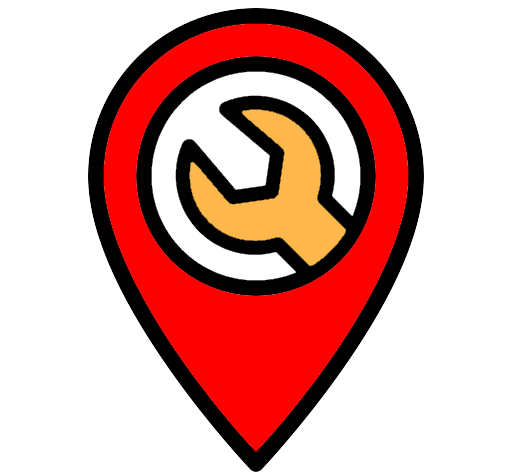
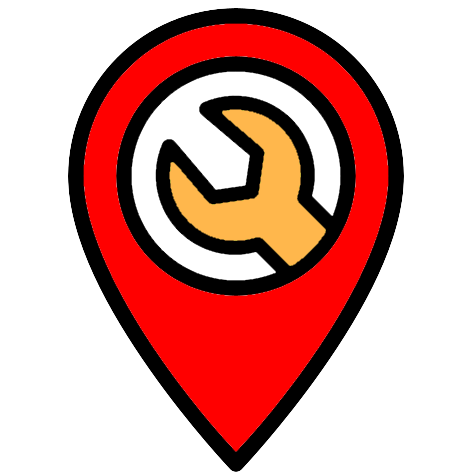
Műhely Mozgatás

diff --git a/3. forduló/script.js b/3. forduló/script.js
@@ -2,9 +2,10 @@ class Muhely{
     constructor(x,y,img,width,height){
         this.xPos=x;
         this.yPos=y;
+        this.arany=c.width/c.height
         this.img=img;
-        this.width=width;
-        this.height=height;
+        this.width=width/this.arany;
+        this.height=height/this.arany;
         this.radius=150;
 
 
@@ -23,6 +24,22 @@ class Muhely{
         context.fill();
         context.stroke();
     }
+    
+    //mozgatás
+    mozgas(context,event){
+        console.log("Mozgatott műhely:",this)
+        this.xPos=event.offsetX;
+        this.yPos=event.offsetY;
+        console.log(event.offsetX,event.offsetY)
+        //Minden elem törlése a canvasról
+        torles(context)
+        //Újrarajzolás
+        muhelyek.forEach(muhely => {
+            muhely.draw(context)
+        })
+        console.log(muhelyek)
+
+        }
 }
 
 class Telepules{
@@ -39,24 +56,38 @@ class Telepules{
     }
 }
 
-/*function init(){
-    var c = document.getElementById("jatek"); 
-    var ctx = c.getContext("2d"); 
-    var cavasRect = c.getBoundingClientRect();
-    c.addEventListener('click', function(event){
-        var x = event.clientX; 
-        var y = event.clientY; 
-        console.log(x,y);
-        let img=document.getElementById("allomasKek");
-        ctx.drawImage(img, x, y,10,10);
-    });
-}*/
+function kekCheck(img) {
+    kekOn = true;
+    zoldOn = false;
+    narancsOn = false;
+    img.classList.add("selected");
+    console.log(kekOn)
+}
+function narancsCheck(img) {
+    kekOn = false;
+    zoldOn = false;
+    narancsOn = true;
+    img.classList.add("selected");
+    
+    console.log(narancsOn)
+}
+function zoldCheck(img) {
+    kekOn = false;
+    zoldOn = true;
+    narancsOn = false;
+    img.classList.add("selected");
+    console.log(zoldOn)
+}
 
-var c = document.getElementById("jatek");
-var ctx = c.getContext("2d");
+function torles(context){
+    context.clearRect(0, 0, c.width, c.height);
+}
 
-var windowHeight=window.innerHeight-300;
-var windowWidth=window.innerWidth-300;
+const c = document.getElementById("jatek");
+const ctx = c.getContext("2d");
+
+const windowHeight=window.innerHeight-300;
+const windowWidth=window.innerWidth-300;
 
 c.style.border="1px black solid"
 c.width=windowWidth;
@@ -65,15 +96,52 @@ c.height=windowHeight;
 //var cavasRect = c.getBoundingClientRect();
 
 var muhelyek=[];
-
+var mouseDown=false;
 var kekOn = false;
 var narancsOn = false;
 var zoldOn = false;
 
-c.addEventListener('click', function (event) {
+var mozgatott;
+c.addEventListener('mousedown',function (event){
+    /*const rect = c.getBoundingClientRect();
+    const scaleX = c.width / rect.width;    // Skála a szélességhez
+    const scaleY = c.height / rect.height;  // Skála a magassághoz
+
+    // Arányosított koordináták számítása
+    const x = (event.clientX - rect.left) * scaleX;
+    const y = (event.clientY - rect.top) * scaleY;
+    */
     let x = event.offsetX;
     let y = event.offsetY;
-    console.log(x, y)
+    console.log("Egérlenyomás koordinátái:"+x+" "+y)
+    muhelyek.forEach(muhely => {
+        //console.log(muhely)
+        if (x >= muhely.xPos - muhely.width/2 && x <= muhely.xPos + muhely.width/2 &&
+            y >= muhely.yPos - muhely.height && y <= muhely.yPos) {
+            console.log('Erre a képre kattintottál:', muhely.img);
+            //Egérmozgás lekövetésének engedélyezése, miután megvan a kattintott műhely
+            mouseDown=true;
+            mozgatott=muhely
+        }
+    })
+})
+
+//Műhely mozgatása, egér koordinátáit átadja a
+c.addEventListener("mousemove",(event)=>{
+    if (mouseDown){
+        mozgatott.mozgas(ctx,event)
+    }
+})
+//Ha felengedi az egeret a műhely mozgatása is álljon meg
+c.addEventListener("mouseup",function (event){
+    mouseDown=false;
+})
+
+c.addEventListener('click', function (event) {
+    //console.log(event)
+    let x = event.offsetX;
+    let y = event.offsetY;
+
     if (zoldOn == true) {
         let img = document.getElementById("allomasZold");
         img.classList.remove("selected");
@@ -103,26 +171,4 @@ c.addEventListener('click', function (event) {
 /*var xPos = event.clientX - cavasRect.left; 
 var yPos = event.clientY - cavasRect.top; 
 console.log(xPos,yPos)*/
-function kekCheck(img) {
-    kekOn = true;
-    zoldOn = false;
-    narancsOn = false;
-    img.classList.add("selected");
-    console.log(kekOn)
-}
-function narancsCheck(img) {
-    kekOn = false;
-    zoldOn = false;
-    narancsOn = true;
-    img.classList.add("selected");
-    
-    console.log(narancsOn)
-}
-function zoldCheck(img) {
-    kekOn = false;
-    zoldOn = true;
-    narancsOn = false;
-    img.classList.add("selected");
-    console.log(zoldOn)
-}
 
